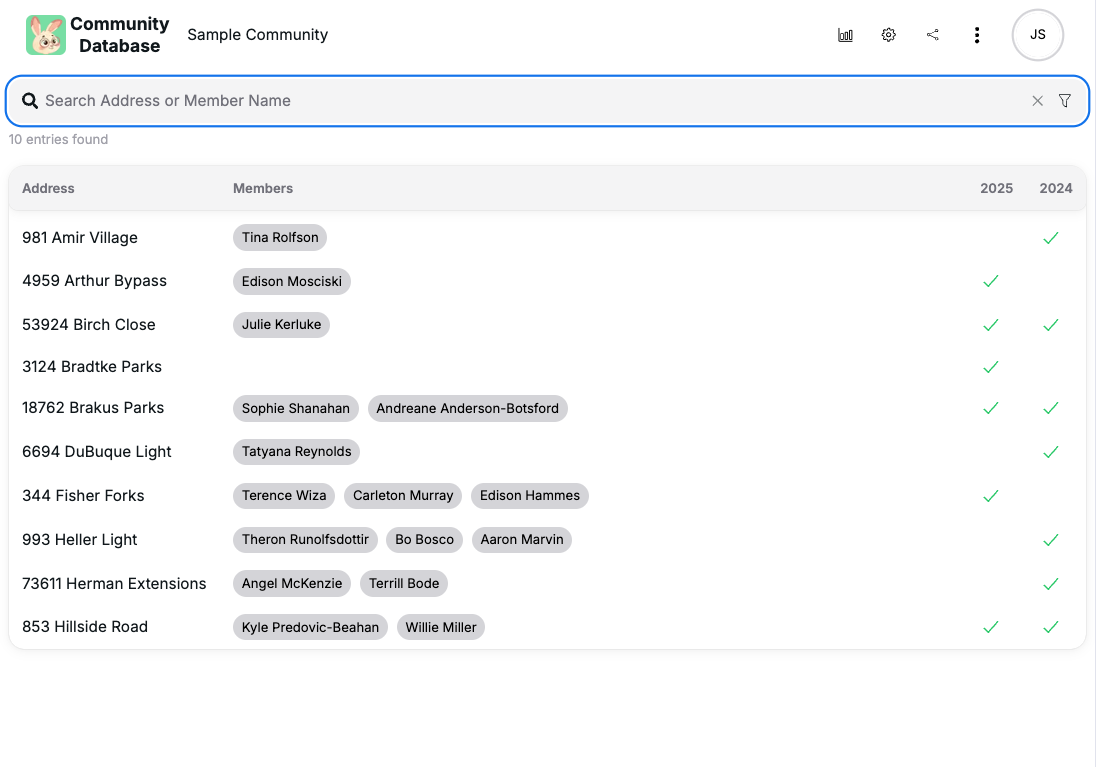
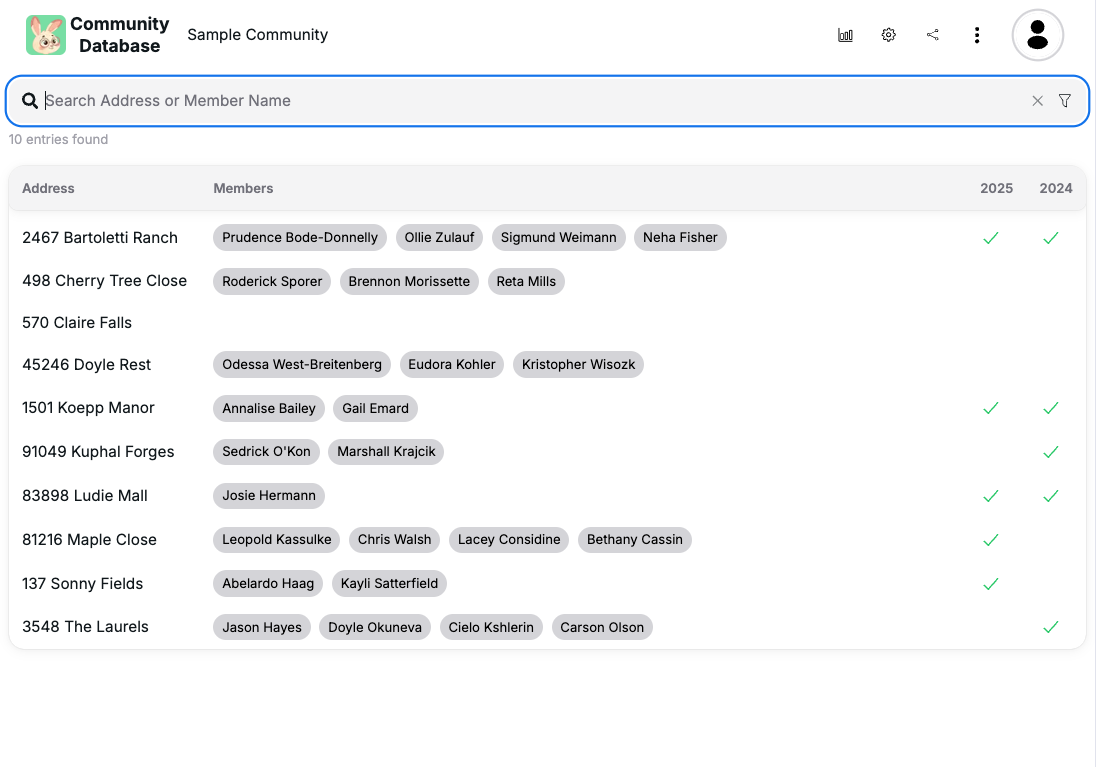
fix: better-auth in cypress/jest

diff --git a/prisma/mongo-seeder.ts b/prisma/mongo-seeder.ts
@@ -1,12 +1,38 @@
 import { Prisma, PrismaClient } from '@prisma/client';
+import { hashPassword } from 'better-auth/crypto';
+import { ObjectId } from 'mongodb';
 import path from 'path';
 import * as XLSX from 'xlsx';
 import { WorksheetHelper } from '~/lib/worksheet-helper';
 import { importXlsx } from '~/lib/xlsx-io/import';
 import { seedCommunityData } from '~/lib/xlsx-io/random-seed';
 
+// Community will be owned by this user
+interface CommunityOwner {
+  email: string;
+  password: string;
+}
+
 export class MongoSeeder {
-  constructor(private workbook: XLSX.WorkBook) {}
+  private owner: CommunityOwner;
+
+  constructor(private workbook: XLSX.WorkBook) {
+    const { AUTH_TEST_EMAIL, AUTH_TEST_PASSWORD } = process.env;
+    if (!AUTH_TEST_EMAIL) {
+      throw new Error(
+        'AUTH_TEST_EMAIL must be set in the environment variables'
+      );
+    }
+    if (!AUTH_TEST_PASSWORD) {
+      throw new Error(
+        'AUTH_TEST_PASSWORD must be set in the environment variables'
+      );
+    }
+    this.owner = {
+      email: AUTH_TEST_EMAIL,
+      password: AUTH_TEST_PASSWORD,
+    };
+  }
 
   /**
    * Seed Mongo database with fixture located in the `/__fixtures__` directory
@@ -41,9 +67,9 @@ export class MongoSeeder {
    * ```
    *
    * @param prisma Prisma instance
-   * @param ownerEmail Email creating the community
+   * @param owner Owner information for creating this community
    */
-  async seed(prisma: PrismaClient, ownerEmail = 'test@email.com') {
+  async seed(prisma: PrismaClient) {
     const communityCreateInput = importXlsx(this.workbook);
 
     const communitySeed: Prisma.CommunityCreateInput[] = [
@@ -55,7 +81,7 @@ export class MongoSeeder {
         name: 'CommunityName',
         owner: {
           connect: {
-            email: ownerEmail,
+            email: this.owner.email,
           },
         },
         ...communityCreateInput,
@@ -71,11 +97,24 @@ export class MongoSeeder {
       })
     );
 
+    // better-auth account, so user can be logged in via email/password
+    // credential
+    const accountSeed: Prisma.AccountCreateWithoutUserInput[] = [
+      {
+        accountId: new ObjectId().toHexString(),
+        providerId: 'credential',
+        password: await hashPassword(this.owner.password),
+      },
+    ];
+
     await prisma.user.create({
       data: {
-        email: ownerEmail,
+        email: this.owner.email,
         accessList: {
           create: accessSeed,
+        },
+        accountList: {
+          create: accountSeed,
         },
       },
     });

diff --git a/cypress/support/login.ts b/cypress/support/login.ts
@@ -1,48 +1,19 @@
-import hkdf from '@panva/hkdf';
-import { EncryptJWT, JWTPayload } from 'jose';
-
-/**
- * Function logic derived from
- * https://github.com/nextauthjs/next-auth/blob/5c1826a8d1f8d8c2d26959d12375704b0a693bfc/packages/next-auth/src/jwt/index.ts#L113-L121
- */
-async function getDerivedEncryptionKey(secret: string) {
-  return await hkdf(
-    'sha256',
-    secret,
-    '',
-    'NextAuth.js Generated Encryption Key',
-    32
-  );
-}
-
-/**
- * Function logic derived from
- * https://github.com/nextauthjs/next-auth/blob/5c1826a8d1f8d8c2d26959d12375704b0a693bfc/packages/next-auth/src/jwt/index.ts#L16-L25
- */
-async function encode(token: JWTPayload, secret: string) {
-  const maxAge = 1 * 24 * 60 * 60; // 1 day
-  const encryptionSecret = await getDerivedEncryptionKey(secret);
-  const sessionToken = new EncryptJWT(token)
-    .setProtectedHeader({ alg: 'dir', enc: 'A256GCM' })
-    .setIssuedAt()
-    .setExpirationTime(Math.round(Date.now() / 1000 + maxAge))
-    .setJti('test')
-    .encrypt(encryptionSecret);
-  return sessionToken;
-}
+import { createAuthClient } from 'better-auth/client';
 
 /** Create session token to simulate the action of user logging in */
 Cypress.Commands.add('login', () => {
   // Set theme to light theme
   window.localStorage.setItem('theme', 'light');
-  cy.wrap(null)
-    .then(() =>
-      encode(
-        Cypress.env('NEXTAUTH_SESSION_USER'),
-        Cypress.env('NEXTAUTH_SECRET')
-      )
-    )
-    .then((sessionToken) => {
-      cy.setCookie('next-auth.session-token', sessionToken);
+
+  cy.wrap(null).then(async () => {
+    const authClient = createAuthClient({
+      baseURL: Cypress.env('BETTER_AUTH_URL'),
     });
+    const { error } = await authClient.signIn.email({
+      email: Cypress.env('AUTH_TEST_EMAIL'),
+      password: Cypress.env('AUTH_TEST_PASSWORD'),
+    });
+    // Verify login to be successful
+    expect(error).to.be.null;
+  });
 });

diff --git a/src/app/graphql/schema/user/query.ts b/src/app/graphql/schema/user/query.ts
@@ -27,9 +27,9 @@ builder.queryField('userCurrent', (t) =>
 
       // In development mode, if context user does not have access
       // to any community, then add all document accessible under
-      // 'test@email.com' to the current context user
+      // AUTH_TEST_EMAIL to the current context user
       // This will ensure that context user see everything that `yarn seed-db` has
-      // created for test@email.com'
+      // created
       if (!isProduction()) {
         const ownAccess = await prisma.access.findFirst({
           select: { id: true },
@@ -37,7 +37,7 @@ builder.queryField('userCurrent', (t) =>
         });
         if (ownAccess == null) {
           const devAccessList = await prisma.access.findMany({
-            where: { user: { email: 'test@email.com' } },
+            where: { user: { email: process.env.AUTH_TEST_EMAIL } },
           });
           // clone devAccessList to context user
           // We can't create access directly in user.update because

diff --git a/src/app/lib/context-user.ts b/src/app/lib/context-user.ts
@@ -1,5 +1,6 @@
 import { GraphQLError } from 'graphql';
 import { getServerSession } from '~/api/auth/[...better]/auth';
+import { isProduction } from '~/lib/env-var';
 
 export interface ContextUser {
   /** Email address used to sign in */
@@ -26,7 +27,9 @@ export async function contextUser(): Promise<ContextUser> {
   if (!email) {
     throw new GraphQLError('Auth: Missing email in user context');
   }
-  if (!emailVerified) {
+  if (isProduction() && !emailVerified) {
+    // During testing, we allow user account to be created without
+    // verifying email address
     throw new GraphQLError('Auth: email is not verified');
   }
 

diff --git a/src/app/graphql/test-util/datatbase-util.ts b/src/app/graphql/test-util/datatbase-util.ts
@@ -2,7 +2,6 @@ import * as XLSX from 'xlsx';
 import { MongoSeeder } from '~/../../prisma/mongo-seeder';
 import prisma from '~/lib/prisma';
 import { WorksheetHelper } from '~/lib/worksheet-helper';
-import { JEST_USER } from './test-user';
 
 /** Database related utilities for testing purpose */
 export class DatabaseUtil {
@@ -19,7 +18,7 @@ export class DatabaseUtil {
    */
   async seedFromWorkbook(workbook: XLSX.WorkBook) {
     const seeder = new MongoSeeder(workbook);
-    const importResult = await seeder.seed(prisma, JEST_USER.email);
+    const importResult = await seeder.seed(prisma);
 
     return importResult;
   }

diff --git a/src/app/graphql/test-util/graphql-util.ts b/src/app/graphql/test-util/graphql-util.ts
@@ -8,7 +8,6 @@ import type { Context } from '~/graphql/context';
 import { pubSub } from '~/graphql/pubsub';
 import { schema } from '~/graphql/schema';
 import { type ContextUser } from '~/lib/context-user';
-import { JEST_USER } from './test-user';
 
 /** Helper test utility class for invoking graphQL query/mutation */
 export class GraphQLUtil {
@@ -16,7 +15,9 @@ export class GraphQLUtil {
 
   // Default context for graphQL
   private _context: Context = {
-    user: JEST_USER,
+    user: {
+      email: process.env.AUTH_TEST_EMAIL!,
+    },
     pubSub,
     clientIp: '127.0.0.1',
   };

diff --git a/src/app/view/header/signed-in/index.tsx b/src/app/view/header/signed-in/index.tsx
@@ -29,12 +29,13 @@ export const SignedIn: React.FC<Props> = ({}) => {
       <DropdownTrigger>
         <User
           className="transition-transform"
+          data-testid="signed-in-user-avatar"
           name=""
           isFocusable
           avatarProps={{
             isBordered: true,
-            name: initial || 'n/a',
             className: 'bg-transparent',
+            ...(initial && { name: initial }),
             ...(!!image && { src: image }),
           }}
         />

diff --git a/cypress.config.ts b/cypress.config.ts
@@ -6,11 +6,9 @@ import {
 
 export default defineConfig({
   env: {
-    BETTER_AUTH_SECRET: 'cypress-test',
-    BETTER_AUTH_SESSION_USER: {
-      name: 'J Smith',
-      email: 'test@email.com',
-    },
+    BETTER_AUTH_SECRET: process.env.BETTER_AUTH_SECRET,
+    AUTH_TEST_EMAIL: process.env.AUTH_TEST_EMAIL,
+    AUTH_TEST_PASSWORD: process.env.AUTH_TEST_PASSWORD,
   },
   e2e: {
     baseUrl: 'http://localhost:3000',

diff --git a/jest.config.ts b/jest.config.ts
@@ -4,7 +4,11 @@ import nextJest from 'next/jest';
 const createJestConfig = nextJest({});
 
 const customJestConfig: Config = {
-  setupFiles: ['<rootDir>/.jest/set-env-vars.ts'],
+  setupFiles: [
+    // Process .env files
+    'dotenv/config',
+    '<rootDir>/.jest/set-env-vars.ts',
+  ],
   globalSetup: '<rootDir>/.jest/global-setup.ts',
   globalTeardown: '<rootDir>/.jest/global-teardown.ts',
   setupFilesAfterEnv: [

diff --git a/src/app/lib/xlsx-io/random-seed.ts b/src/app/lib/xlsx-io/random-seed.ts
@@ -183,7 +183,7 @@ function newAddress() {
     PostalCode: faker.location.zipCode(),
     Notes: faker.lorem.sentences({ min: 1, max: 5 }, '\n'),
     LastModDate: faker.date.past().toISOString(),
-    LastModBy: 'test@email.com',
+    LastModBy: process.env.AUTH_TEST_EMAIL,
   };
 
   const numPerson = faker.number.int(4);

diff --git a/src/app/graphql/test-util/index.ts b/src/app/graphql/test-util/index.ts
@@ -1,8 +1,6 @@
 import { DatabaseUtil } from './datatbase-util';
 import { GraphQLUtil } from './graphql-util';
 
-export { JEST_USER } from './test-user';
-
 /**
  * Helper test utility class for initializaton of key test tools when running
  * Jest unit tests

diff --git a/src/app/custom-hooks/user-info.ts b/src/app/custom-hooks/user-info.ts
@@ -3,7 +3,7 @@ import { useSession } from '~/custom-hooks/auth';
 /** Extract the first letter of each word */
 function acronym(input?: string | null) {
   if (!input) {
-    return 'n/a';
+    return '';
   }
   return input
     .split(/\s/)
